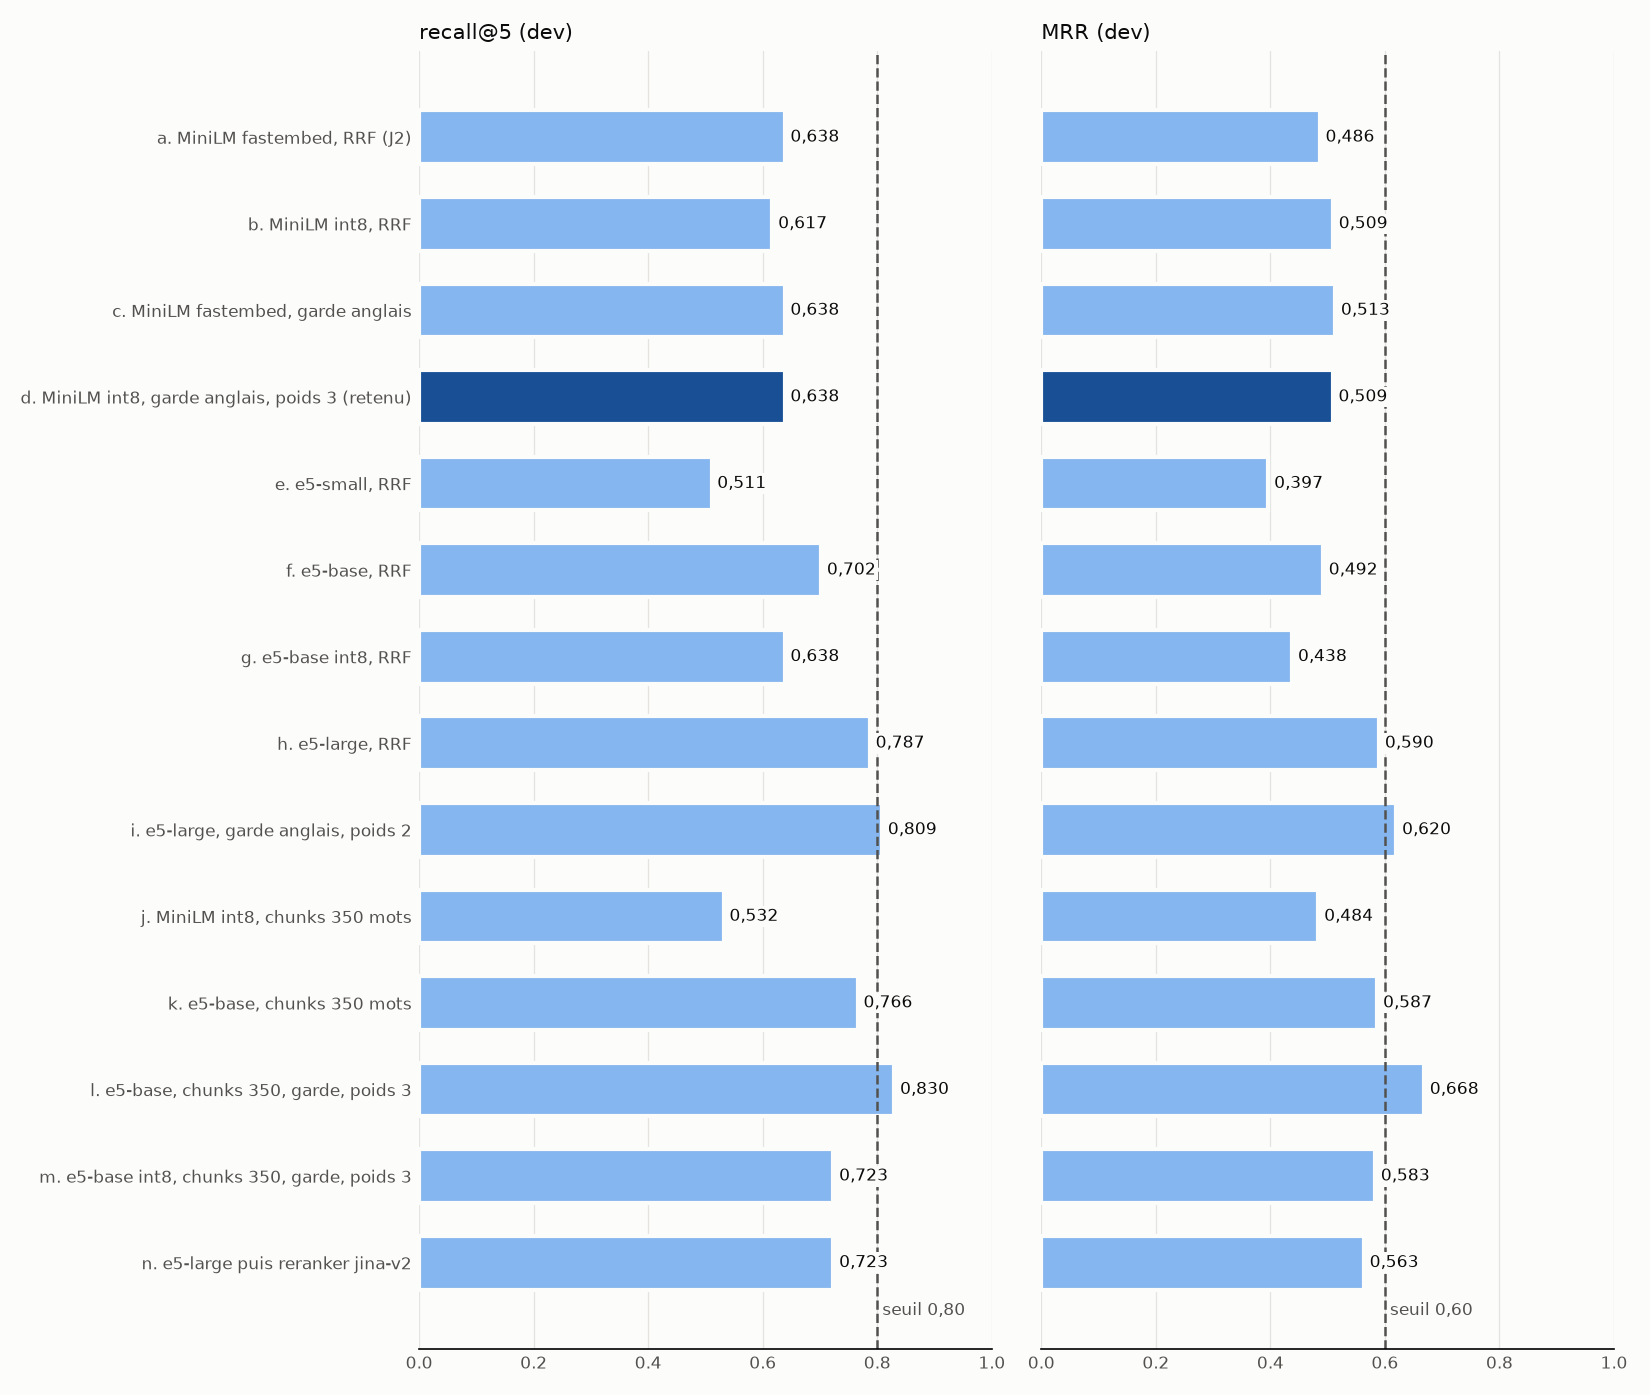
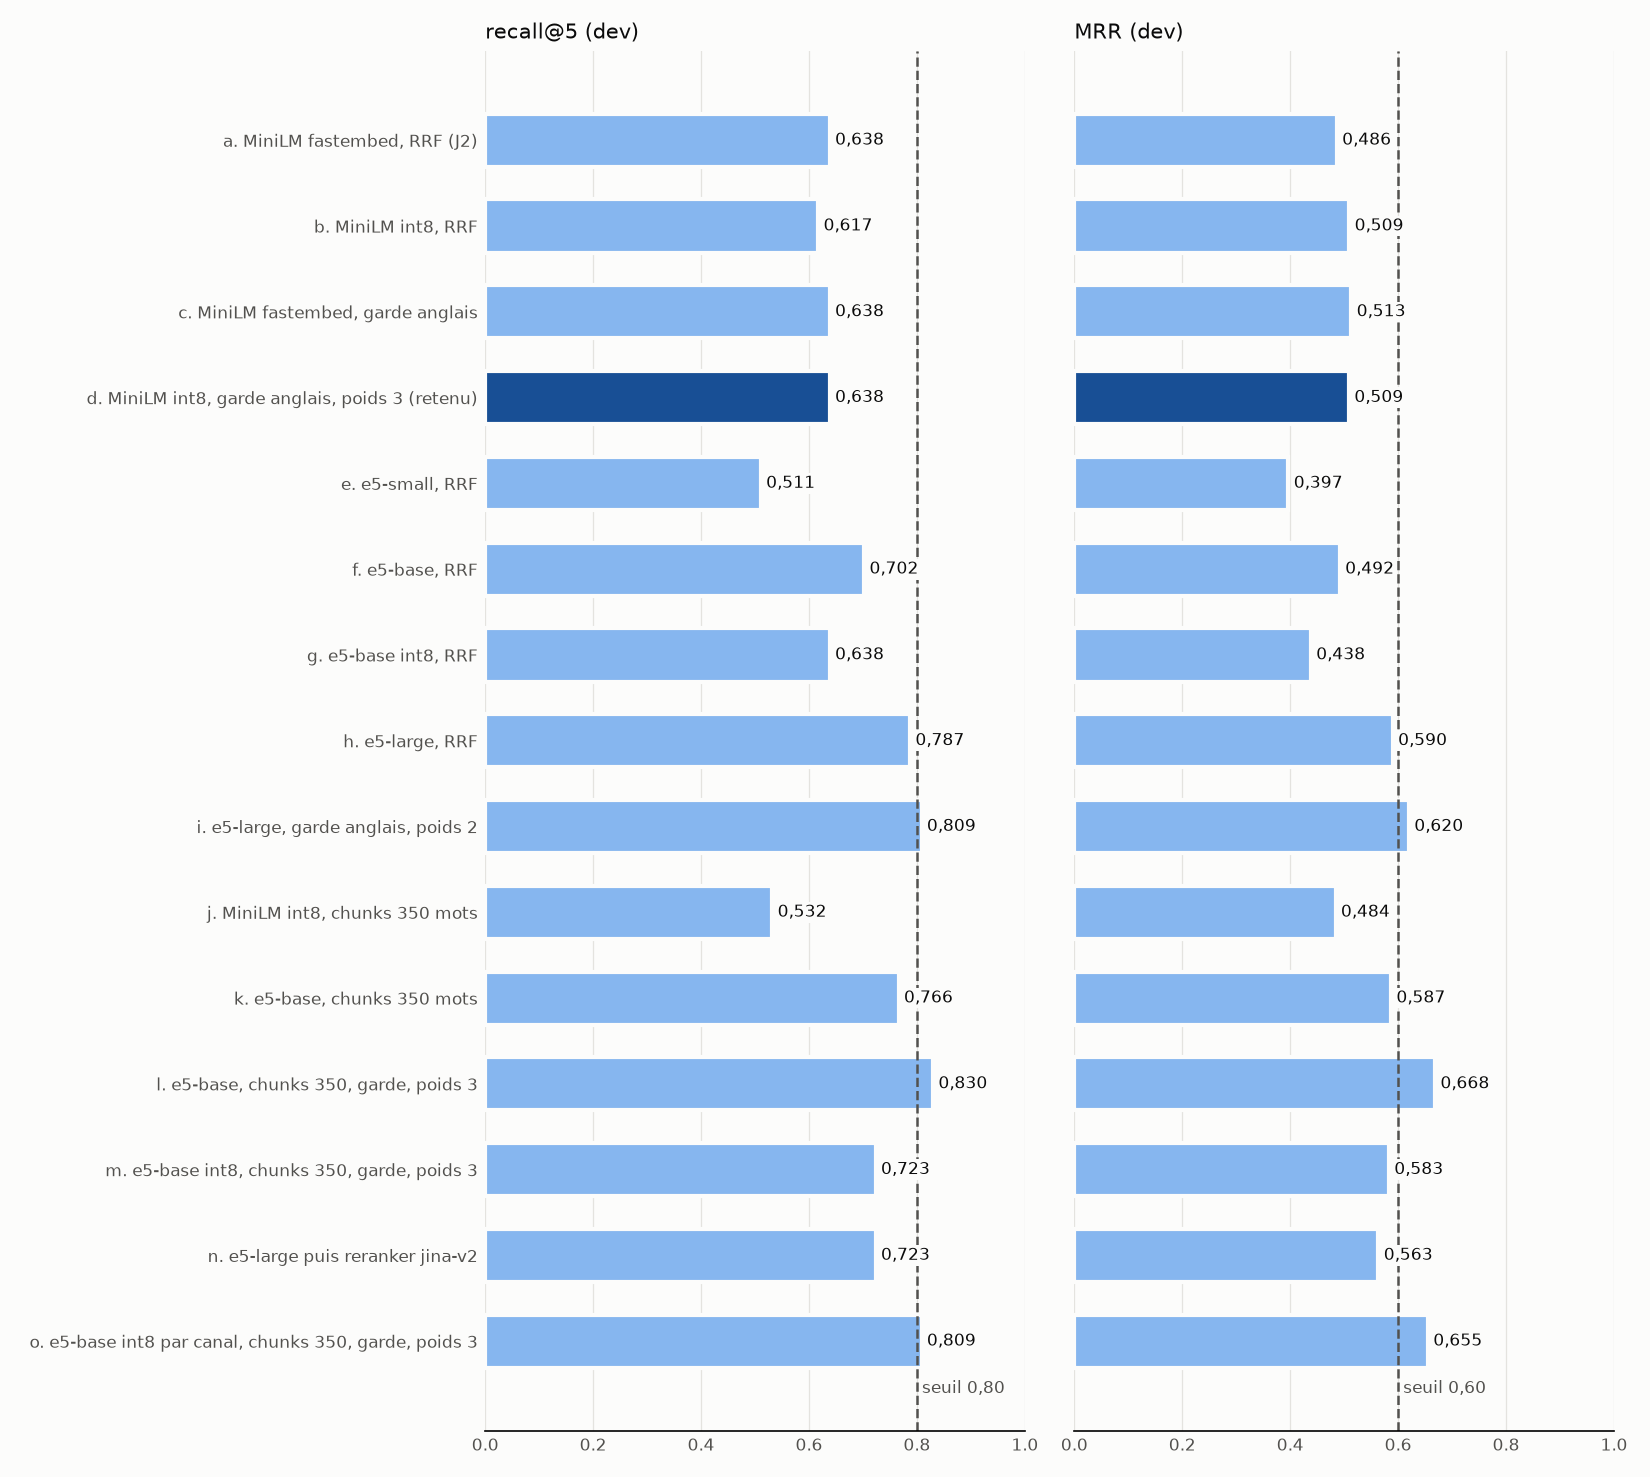
docs(evaluation): record the e5-base int8 decision, refused on pod memory

diff --git a/docs/progress.md b/docs/progress.md
@@ -17,12 +17,12 @@ n'est pas `DONE`. Statuts possibles : `DONE`, `PARTIEL`, `BLOQUÉ`.
 | 2026-10-06 | J11 test de charge | PARTIEL | `docs/proofs/J11/` (garde-fous de charge vus rouges, verdict vu rouge, 20 utilisateurs pendant 60 s contre un bouchon local) | mesure réelle impossible tant que l'API du J5 n'est pas fusionnée ; les latences du bouchon ne disent rien de Vigie | lancer `python tasks.py load-local` contre l'API locale dès le J5 et juger contre la section `load` de `eval/thresholds.yaml` |
 | 2026-10-06 | J10 red teaming | PARTIEL | `docs/proofs/J10/` (360 attaques générées en local, barrière verte sur un bouchon protégé, vue rouge sur un bouchon qui fuit et sur un jeton faux) | rejeu contre la vraie API impossible tant que le J5 n'est pas fusionné | rejouer en CI contre l'API avec le faux LLM, puis à la main contre Ministral, dès le J5 |
 | 2026-10-06 | J14 infrastructure Oracle (première moitié) | BLOQUÉ | `docs/proofs/J14/` (plan et apply masqués, réseau, budget, bucket et politique IAM créés, journal d'`infra-retry`) | VM A1 refusée par Oracle, « Out of host capacity » en eu-paris-1 | `infra-retry` relance toutes les 10 minutes ; repli k3d (décision 6) au bout de sept jours |
-| 2026-10-06 | J2 recherche hybride | PARTIEL | `docs/proofs/J2/` puis `docs/proofs/J8/eval/` (configuration retenue au J8, MiniLM int8, garde anglais, poids dense 3 : recall@5 0,638 et MRR 0,509 sur `dev`, mesurée une fois sur `test` : recall@5 0,652 [0,435 ; 0,826], MRR 0,514 [0,344 ; 0,692]) | seuils de recherche (0,80 et 0,60) non atteints sur `test` avec ce qui tient dans le pod de l'API ; e5-large avec garde anglais (0,809 et 0,620) et e5-base en chunks de 350 mots (0,830 et 0,668) les passent sur `dev` mais demandent 1,4 à 1,6 Gio, et int8 coûte 6 à 11 points à e5-base | décision d'Adam (ADR) sur la mémoire d'un modèle e5 : pod d'embedding séparé ou budget revu ; brancher le garde-fou d'entrée sur `screen` au J4 |
+| 2026-10-07 | J2 recherche hybride | PARTIEL | `docs/proofs/J2/` puis `docs/proofs/J8/eval/` (configuration retenue au J8, MiniLM int8, garde anglais, poids dense 3 : recall@5 0,638 et MRR 0,509 sur `dev`, mesurée une fois sur `test` : recall@5 0,652 [0,435 ; 0,826], MRR 0,514 [0,344 ; 0,692] ; e5-base int8 par canal en chunks de 350 mots : 0,809 et 0,655 sur `dev`, `pod-rss.txt`) | seuils de recherche (0,80 et 0,60) non atteints sur `test` avec ce qui tient dans le pod de l'API ; e5-base int8 par canal passe les planchers sur `dev`, la parité et la taille, mais le pod de l'API monte à 1 019 Mio pour 950 permis (règle `dense_embedding` écrite avant la mesure), et l'option sans préempaquetage ni arène ONNX Runtime ne gagne que 5 Mio | décision d'Adam (ADR) : pod d'embedding séparé, ou budget revu (par exemple 2 pods d'API au lieu de 3), puis mesure unique de `test` pour e5-base ; brancher le garde-fou d'entrée sur `screen` au J4 |
 | 2026-10-06 | J13 Kubernetes, canary et scaling | PARTIEL | `docs/proofs/J13/` (kubeconform sur 5 couches, budget vert puis vu rouge, essais côté serveur, surcouche dev appliquée sur k3d) | images de l'API et de l'interface pas encore publiées, le canary n'a donc pas tourné avec du trafic réel | rejouer le canary et l'autoscaling dès que la CI publie les images (J5, J7, J15) |
 | 2026-10-06 | J15 CI/CD GitHub Actions | PARTIEL | `docs/proofs/J15/` et `docs/proofs/gates/` (actionlint, crédit du binôme, planchers de couverture et épinglage vus rouges), CI de la PR verte | portes d'évaluation, de red teaming et de l'interface inactives faute de `vigie-eval gate`, de `docker-compose.yml` et de `web/` ; aucune image publiée tant que les Dockerfile n'existent pas | elles démarrent seules avec le J8 (porte), le J7 (Docker) et le J6 (interface) |
 | 2026-10-06 | J12 quantization | DONE | `docs/proofs/J12/` (seuil écrit avant mesure, parité ONNX contre PyTorch 7,5e-8, embedding int8 retenu sur `dev` : taille x 0,25, rappel@5 0,468 puis 0,511, barrière vue rouge sur un seuil dégradé ; Ministral Q4_K_M contre Q8_0 sur CPU, Q4_K_M gardé) | | premier token mesuré à 60 s sur le poste : à mesurer sur la VM au J14 contre le seuil de 5 s ; six réponses sur dix sans citation dans les deux variantes, à reprendre avec la recherche hybride du J2 ; brancher `dense_variant` dans l'embedder dense de `vigie.retrieval`, qui charge encore le modèle par fastembed |
 | 2026-10-06 | J6 interface PWA | PARTIEL | `docs/proofs/J6/` (build et budget JS, 93 tests unitaires, contraste clair et sombre, 54 tests Playwright dont axe et CSP de production) | Lighthouse jamais lancé, interface testée contre une API simulée | lancer `npm run --prefix web lhci`, puis rejouer la suite Playwright contre l'API du J5, désormais fusionnée |
-| 2026-10-06 | J8 évaluation, MLflow et choix du modèle | PARTIEL | `docs/proofs/J8/eval/` (`vigie-eval run`, `gate`, `register`, `alias` ; 14 configurations comparées sur `dev`, un run MLflow chacune, capture de l'interface ; barrière vue rouge sur `test` et sur une configuration dégradée dans `docs/proofs/gates/` ; enregistrement refusé par la barrière) | aucune version `vigie-rag` enregistrée : la configuration retenue ne passe pas les planchers de recherche sur `test` ; le job CI `eval-gate` est rouge pour la même raison | enregistrer le premier champion dès qu'une configuration passe la barrière ; juge LLM hors CI (DeepEval) encore à faire ; promotion qui passe vue seulement sur `dev` et un magasin MLflow jetable (e5-large, `promotion-demo-dev.txt`), preuve du mécanisme et non d'un champion |
+| 2026-10-07 | J8 évaluation, MLflow et choix du modèle | PARTIEL | `docs/proofs/J8/eval/` (`vigie-eval run`, `gate`, `register`, `alias` ; 15 configurations comparées sur `dev`, un run MLflow chacune, capture de l'interface ; export int8 par canal d'e5-base, parité fp32 2,2e-7, fichier x 0,251 ; mémoire du pod de l'API mesurée, 864 Mio pour MiniLM et 1 019 Mio pour e5-base ; barrière vue rouge sur `test` et sur une configuration dégradée dans `docs/proofs/gates/` ; enregistrement refusé par la barrière) | aucune version `vigie-rag` enregistrée : la configuration retenue ne passe pas les planchers de recherche sur `test`, et e5-base, qui les passe sur `dev`, dépasse la mémoire du pod ; le job CI `eval-gate` est rouge pour la même raison, la PR #24 reste ouverte | enregistrer le premier champion dès qu'une configuration passe la barrière dans le budget ; décision d'Adam sur la mémoire (voir J2) ; juge LLM hors CI (DeepEval) encore à faire ; mémoire du pod à remesurer dans le conteneur Linux du J7 |
 
 ## Décisions par défaut appliquées (section 10 du brief)
 

diff --git a/docs/evaluation.md b/docs/evaluation.md
@@ -69,7 +69,7 @@ recherche (fusion, poids, reranker, `top_k`), version du prompt, étiquette Olla
 `champion` désigne la production, `challenger` le canary. L'API ne contacte jamais
 MLflow : une étape de la CD lit les alias et écrit les ConfigMaps (brief, section 11.8).
 
-État au 6 octobre 2026 : **aucune version enregistrée**. La configuration retenue ne passe
+État au 7 octobre 2026 : **aucune version enregistrée**. La configuration retenue ne passe
 pas les planchers de recherche sur `test` (voir plus bas), et `vigie-eval register` l'a
 refusée (`docs/proofs/J8/eval/register-refused.txt`, code de sortie 1). Le chemin complet,
 version créée, bundle écrit, alias posés puis déplacés, est couvert par les tests sur un
@@ -137,6 +137,7 @@ passage et une question encodés).
 | l | multilingual-e5-base, chunks de 350 mots, garde anglais, poids 3 | 0,830 | 0,668 | 1 445 Mio | non |
 | m | multilingual-e5-base int8, chunks de 350 mots, garde anglais, poids 3 | 0,723 | 0,583 | 666 Mio | non |
 | n | multilingual-e5-large puis reranker jina-v2-base-multilingual sur 30 candidats | 0,723 | 0,563 | 12 Go en pointe pendant la mesure | non |
+| o | multilingual-e5-base int8 par canal, chunks de 350 mots, garde anglais, poids 3 | 0,809 | 0,655 | 1 019 Mio (pod de l'API entier) | non, 950 Mio permis |
 
 ![Comparaison des configurations sur dev](assets/retrieval-candidates.png)
 
@@ -152,11 +153,12 @@ Lecture :
 - **Le découpage aide e5, pas MiniLM.** Avec des chunks de 350 mots, à peu près la fenêtre
   de 512 jetons d'e5, e5-base gagne 6 points ; MiniLM, qui ne lit que 128 jetons, en perd
   8,5, comme au J2.
-- **int8 ne convient qu'à MiniLM.** Pour MiniLM, l'écart tient à une question sur 47 :
+- **int8 par tenseur ne convient qu'à MiniLM, int8 par canal convient aussi à e5-base.** Pour MiniLM, l'écart tient à une question sur 47 :
   avec la fusion du J2, int8 perd 2,1 points de rappel (runs a et b, 0,638 contre 0,617) ;
   avec la fusion retenue, il en gagne 2,1 (0,638 contre 0,617 pour fastembed avec le même
   poids et le même garde, `branches.txt`). Pour e5-base, int8 coûte 6 à 11 points (runs f
-  et g, l et m), bien au-delà du bruit.
+  et g, l et m), bien au-delà du bruit. Avec une échelle par canal de sortie (run o), la perte
+  tombe à 2,1 points, une question sur 47, et le fichier reste au quart du fp32.
 - **Le reranker dégrade et ne tient pas.** Sur e5-large, jina-v2 fait perdre 6 points de
   rappel et prend environ 73 s par question sur le poste ; il lit des articles réglementaires
   français longs, loin de ce qu'il a appris. Il reste disponible (`VIGIE_RERANK_MODEL`),
@@ -171,16 +173,51 @@ La meilleure configuration mesurée, **e5-base en chunks de 350 mots avec le gar
 (run l, 0,830 et 0,668 sur `dev`), et la meilleure à découpage inchangé, **e5-large avec le
 garde anglais** (run i, 0,809 et 0,620), passent les planchers sur `dev`. Aucune ne tient
 dans le pod de l'API : le brief (section 11.7) lui donne 0,7 Go, sans torch, garde-fou
-DeBERTa ONNX compris. e5-base occupe 1,4 Gio en fp32 et 666 Mio en int8, mais int8 lui fait
-perdre 11 points ; e5-large dépasse 1,5 Gio. Sur les deux cœurs Arm de la VM, encoder chaque
+DeBERTa ONNX compris. e5-base occupe 1,4 Gio en fp32 ; en int8 par tenseur il perd
+11 points, en int8 par canal il passe les planchers mais le pod atteint 1 019 Mio (section
+suivante) ; e5-large dépasse 1,5 Gio. Sur les deux cœurs Arm de la VM, encoder chaque
 question avec e5-large prendrait aussi une part du budget de 500 ms au p95 du test de
 charge.
+
+### e5-base int8 par canal (7 octobre 2026)
+
+La règle `dense_embedding` de `eval/thresholds.yaml` a été écrite avant la mesure
+(commit `af6605b`) : e5-base int8 remplace MiniLM seulement si, sur `dev`, recall@5 et MRR
+atteignent les planchers, la parité de l'export fp32 avec PyTorch reste sous 1e-4, le
+fichier int8 pèse au plus la moitié du fp32 et un pod de l'API reste sous 950 Mio
+(8,5 Go de `requests` moins 5,65 Go de composants fixes, partagés par 3 pods).
+
+| Critère | Mesure | Règle | Verdict |
+|---|---|---|---|
+| recall@5 sur `dev` (run o) | 0,809 [0,702 ; 0,915] | au moins 0,80 | passe |
+| MRR sur `dev` (run o) | 0,655 [0,545 ; 0,766] | au moins 0,60 | passe |
+| parité fp32 contre PyTorch | 2,2e-7 | au plus 1e-4 | passe |
+| taille int8 sur fp32 | 0,251 | au plus 0,5 | passe |
+| mémoire du pod de l'API | 1 019 Mio | sous 950 Mio | **échoue** |
+
+La mémoire est celle de `python -m vigie.api` entier (`docs/proofs/J8/eval/pod_rss.py`) :
+garde-fou DeBERTa int8, e5-base int8, BM25, faux LLM, 20 questions posées, Qdrant dans son
+propre conteneur. Le même banc donne 864 Mio pour la configuration déployée (MiniLM int8) :
+e5-base ajoute 155 Mio, à peu près la différence de taille des deux fichiers. Une seconde
+option, écrite elle aussi avant sa mesure (commit `3e18c4f`), a construit les sessions ONNX
+Runtime sans poids préempaquetés ni arène mémoire : 1 014 Mio, 5 Mio de gagnés, refusée
+(`docs/proofs/J8/eval/pod-rss.txt`). Le code de cette option a été retiré ; il reste dans
+l'historique (`07b69e1`) pour rejouer la preuve.
+
+Passer de 3 à 2 pods d'API porterait le budget à 1 425 Mio par pod. Cette voie n'a pas été
+prise : la mémoire d'e5-base est déjà connue, donc une règle écrite maintenant ne serait
+plus écrite avant la mesure, et le budget est une contrainte du brief au même titre que les
+planchers. Elle retire aussi soit la montée en charge de l'HPA, soit le pod du canary. Les
+deux voies restantes, un pod d'embedding séparé ou un budget revu, sont une décision
+d'Adam, à écrire dans un ADR. La partie `test` n'a pas été lue pour e5-base.
 
 **Configuration retenue, run d** : MiniLM-L12 en ONNX int8 (`VIGIE_DENSE_VARIANT=int8`,
 fenêtre de 128 jetons), BM25 français, RRF k = 60 avec un poids dense de 3, BM25 laissé de
 côté sur les questions anglaises, épinglage des références, sans reranker, `top_k` = 6.
-C'est la seule configuration mesurée qui tient dans 0,7 Go avec l'API et le garde-fou
-(453 Mio pour le processus et le modèle). Elle applique la décision du J12 : avec la fusion
+C'est la seule configuration mesurée qui tient dans le budget du pod (453 Mio pour le
+processus et le modèle seuls ; 864 Mio pour l'API entière avec le garde-fou, mesurés le
+7 octobre par `pod_rss.py`, au-dessus de l'estimation de 0,7 Go du brief mais sous les
+950 Mio qui restent par pod). Elle applique la décision du J12 : avec la fusion
 retenue, int8 fait aussi bien que le modèle fastembed sur `dev` (0,638 contre 0,617 pour
 fastembed avec les mêmes réglages, une question d'écart).
 

diff --git a/docs/quantization.md b/docs/quantization.md
@@ -95,13 +95,17 @@ recherche hybride de production, sur les 47 questions `dev` (détail dans
 | MiniLM-L12 | garde anglais, poids dense 3 (retenue) | 0,617 | 0,638 | +2,1 points |
 | e5-base | RRF k = 60 | 0,702 | 0,638 | -6,4 points |
 | e5-base | chunks de 350 mots, garde anglais, poids 3 | 0,830 | 0,723 | -10,7 points |
+| e5-base | même configuration, int8 par canal (7 octobre) | 0,830 | 0,809 | -2,1 points |
 
 La colonne fastembed de MiniLM est elle-même une copie ONNX déjà quantifiée par Qdrant
 (`qdrant/paraphrase-multilingual-MiniLM-L12-v2-onnx-Q`), lue sur 512 jetons. Pour MiniLM,
 l'écart tient à une question sur 47 dans un sens ou dans l'autre selon la
 fusion ; int8 reste déployé. Pour e5-base, la quantization dynamique fait perdre bien plus
-que les 2 points permis : si un modèle e5 est adopté, il faudra une autre méthode (par
-canal, ou statique avec calibration), mesurée de nouveau avec `vigie-quant`.
+que les 2 points permis avec une échelle par tenseur. Avec une échelle par canal de sortie,
+désormais le défaut de `vigie-quant export` (`--per-tensor` rend l'ancien export), e5-base
+int8 ne perd plus que 2,1 points (une question sur 47) pour un fichier au quart du fp32
+(`docs/proofs/J8/eval/e5base-parity.txt`). Il reste trop lourd pour le pod de l'API :
+1 019 Mio mesurés pour 950 permis (`docs/evaluation.md`, « Choix et budget mémoire »).
 
 Barrière vue rouge : la même mesure avec une copie du seuil dégradée (`max_size_ratio`
 ramené à 0,2) retient fp32 et donne le motif « int8 file is 0.25 of fp32, above 0.20 »

diff --git a/CHANGELOG.md b/CHANGELOG.md
@@ -6,6 +6,19 @@ les notes reprennent la section correspondante.
 
 ## [Unreleased]
 
+### Added
+
+- `vigie-quant export` quantifie avec une échelle par canal de sortie (`--per-tensor` rend
+  l'export du J12). e5-base int8 ne perd plus que 2,1 points de recall@5 sur `dev`.
+- `docs/proofs/J8/eval/pod_rss.py` mesure la mémoire du pod de l'API entier (garde-fou,
+  modèles, 20 questions) : 864 Mio pour MiniLM int8, 1 019 Mio pour e5-base int8.
+
+### Changed
+
+- `docs/evaluation.md` : run o (e5-base int8 par canal, 0,809 et 0,655 sur `dev`) jugé par
+  la règle `dense_embedding` écrite avant la mesure ; refusé sur la mémoire (950 Mio
+  permis), comme l'option sans préempaquetage ONNX Runtime. MiniLM int8 reste déployé.
+
 ## [0.17.0] - 2026-10-06
 
 ### Added
